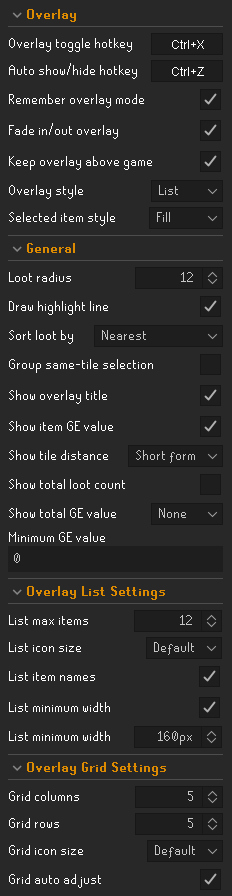
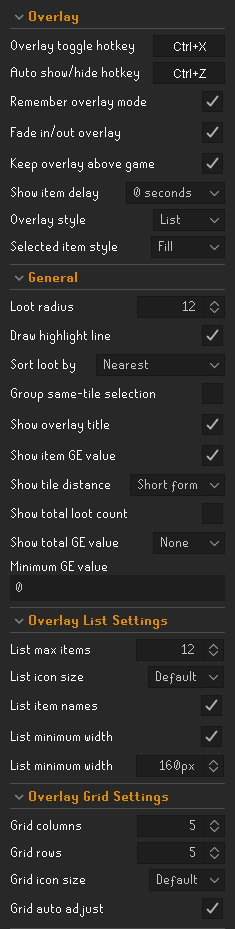
Added new feature to delay the item being show on the overlay. helps when in areas that have loot drop and picked up instantly. can set a delay so the overlay doesn't update constantly.

diff --git a/src/main/java/com/arealoot/AreaLootPlugin.java b/src/main/java/com/arealoot/AreaLootPlugin.java
@@ -85,7 +85,7 @@ public class AreaLootPlugin extends Plugin
 	private static final String REMEMBERED_MANUAL_OVERLAY_KEY = "rememberedManualOverlayEnabled";
 	private static final String REMEMBERED_AUTO_OVERLAY_KEY = "rememberedAutoOverlayEnabled";
 
-	private final Map<WorldPoint, List<TileItem>> groundItems = new HashMap<>();
+	private final Map<WorldPoint, List<TrackedGroundItem>> groundItems = new HashMap<>();
 	private final Map<Integer, String> itemNameCache = new HashMap<>();
 	private final Map<Integer, Integer> itemPriceCache = new HashMap<>();
 
@@ -132,6 +132,7 @@ public class AreaLootPlugin extends Plugin
 	private boolean sidePanelRegistered;
 	private boolean sidePanelActive;
 	private boolean lootDirty;
+	private long nextDelayedLootRefreshMillis;
 
 	@Getter
 	private volatile WorldPoint selectedLocation;
@@ -223,6 +224,7 @@ public class AreaLootPlugin extends Plugin
 		manualOverlayEnabled = false;
 		autoOverlayEnabled = false;
 		lootDirty = false;
+		nextDelayedLootRefreshMillis = 0;
 		overlayStatusUntilMillis = 0;
 		overlayStatusText = "";
 		overlayFadeOutActive = false;
@@ -232,7 +234,7 @@ public class AreaLootPlugin extends Plugin
 	public void onItemSpawned(ItemSpawned event)
 	{
 		WorldPoint location = event.getTile().getWorldLocation();
-		groundItems.computeIfAbsent(location, ignored -> new ArrayList<>()).add(event.getItem());
+		addItem(location, event.getItem(), System.currentTimeMillis());
 		lootDirty = true;
 	}
 
@@ -246,8 +248,12 @@ public class AreaLootPlugin extends Plugin
 	@Subscribe
 	public void onItemQuantityChanged(ItemQuantityChanged event)
 	{
-		removeItem(event.getTile(), event.getItem());
-		groundItems.computeIfAbsent(event.getTile().getWorldLocation(), ignored -> new ArrayList<>()).add(event.getItem());
+		Long spawnedAtMillis = removeItem(event.getTile(), event.getItem());
+		addItem(
+			event.getTile().getWorldLocation(),
+			event.getItem(),
+			spawnedAtMillis == null ? System.currentTimeMillis() : spawnedAtMillis
+		);
 		lootDirty = true;
 	}
 
@@ -259,7 +265,7 @@ public class AreaLootPlugin extends Plugin
 			return;
 		}
 
-		if (lootDirty || hasPlayerMoved())
+		if (lootDirty || hasPlayerMoved() || hasDelayedLootReady())
 		{
 			lootDirty = false;
 			refreshLootSnapshot();
@@ -284,6 +290,7 @@ public class AreaLootPlugin extends Plugin
 			autoOverlayEnabled = false;
 			sidePanelActive = false;
 			lootDirty = false;
+			nextDelayedLootRefreshMillis = 0;
 			overlayStatusUntilMillis = 0;
 			overlayStatusText = "";
 			overlayFadeOutActive = false;
@@ -332,7 +339,7 @@ public class AreaLootPlugin extends Plugin
 				clearSavedOverlayMode();
 			}
 		}
-		else if ("sortMode".equals(key) || "minimumGeValue".equals(key) || BLOCKED_ITEMS_KEY.equals(key)
+		else if ("sortMode".equals(key) || "minimumGeValue".equals(key) || "overlayItemDelay".equals(key) || BLOCKED_ITEMS_KEY.equals(key)
 			|| WHITELISTED_ITEMS_KEY.equals(key) || "lootRadius".equals(key))
 		{
 			lootDirty = true;
@@ -709,6 +716,11 @@ public class AreaLootPlugin extends Plugin
 		return playerLocation != null && !playerLocation.equals(lastPlayerLocation);
 	}
 
+	private boolean hasDelayedLootReady()
+	{
+		return nextDelayedLootRefreshMillis > 0 && System.currentTimeMillis() >= nextDelayedLootRefreshMillis;
+	}
+
 	private WorldPoint getPlayerLocation()
 	{
 		Player player = client.getLocalPlayer();
@@ -901,8 +913,11 @@ public class AreaLootPlugin extends Plugin
 		Set<String> blockedItems = parseBlockedItems();
 		Set<String> whitelistedItems = parseWhitelistedItems();
 		List<AreaLootItem> items = new ArrayList<>();
+		long now = System.currentTimeMillis();
+		long itemDelayMillis = getOverlayItemDelayMillis();
+		long nextDelayedRefreshMillis = 0;
 
-		for (Map.Entry<WorldPoint, List<TileItem>> entry : groundItems.entrySet())
+		for (Map.Entry<WorldPoint, List<TrackedGroundItem>> entry : groundItems.entrySet())
 		{
 			WorldPoint location = entry.getKey();
 			if (location.getPlane() != playerLocation.getPlane())
@@ -916,8 +931,21 @@ public class AreaLootPlugin extends Plugin
 				continue;
 			}
 
-			for (TileItem tileItem : entry.getValue())
+			for (TrackedGroundItem trackedItem : entry.getValue())
 			{
+				if (itemDelayMillis > 0)
+				{
+					long showAtMillis = trackedItem.getSpawnedAtMillis() + itemDelayMillis;
+					if (now < showAtMillis)
+					{
+						nextDelayedRefreshMillis = nextDelayedRefreshMillis == 0
+							? showAtMillis
+							: Math.min(nextDelayedRefreshMillis, showAtMillis);
+						continue;
+					}
+				}
+
+				TileItem tileItem = trackedItem.getItem();
 				String itemName = getItemName(tileItem.getId());
 				if (isConfiguredItem(itemName, blockedItems))
 				{
@@ -943,8 +971,14 @@ public class AreaLootPlugin extends Plugin
 			}
 		}
 
+		nextDelayedLootRefreshMillis = nextDelayedRefreshMillis;
 		sortLoot(items);
 		return items;
+	}
+
+	private long getOverlayItemDelayMillis()
+	{
+		return config.overlayItemDelay().getSeconds() * 1000L;
 	}
 
 	private void sortLoot(List<AreaLootItem> items)
@@ -1374,20 +1408,29 @@ public class AreaLootPlugin extends Plugin
 		}
 	}
 
-	private void removeItem(Tile tile, TileItem item)
+	private void addItem(WorldPoint location, TileItem item, long spawnedAtMillis)
+	{
+		groundItems.computeIfAbsent(location, ignored -> new ArrayList<>())
+			.add(new TrackedGroundItem(item, spawnedAtMillis));
+	}
+
+	private Long removeItem(Tile tile, TileItem item)
 	{
 		WorldPoint location = tile.getWorldLocation();
-		List<TileItem> items = groundItems.get(location);
+		List<TrackedGroundItem> items = groundItems.get(location);
 		if (items == null)
 		{
-			return;
+			return null;
 		}
 
-		for (Iterator<TileItem> iterator = items.iterator(); iterator.hasNext(); )
+		Long spawnedAtMillis = null;
+		for (Iterator<TrackedGroundItem> iterator = items.iterator(); iterator.hasNext(); )
 		{
-			TileItem current = iterator.next();
+			TrackedGroundItem trackedItem = iterator.next();
+			TileItem current = trackedItem.getItem();
 			if (current == item || current.getId() == item.getId())
 			{
+				spawnedAtMillis = trackedItem.getSpawnedAtMillis();
 				iterator.remove();
 				break;
 			}
@@ -1404,6 +1447,8 @@ public class AreaLootPlugin extends Plugin
 			selectedItemId = -1;
 			selectedStackId = -1;
 		}
+
+		return spawnedAtMillis;
 	}
 
 	private BufferedImage createIcon()
@@ -1437,5 +1482,27 @@ public class AreaLootPlugin extends Plugin
 	AreaLootConfig provideConfig(ConfigManager configManager)
 	{
 		return configManager.getConfig(AreaLootConfig.class);
+	}
+
+	private static final class TrackedGroundItem
+	{
+		private final TileItem item;
+		private final long spawnedAtMillis;
+
+		private TrackedGroundItem(TileItem item, long spawnedAtMillis)
+		{
+			this.item = item;
+			this.spawnedAtMillis = spawnedAtMillis;
+		}
+
+		private TileItem getItem()
+		{
+			return item;
+		}
+
+		private long getSpawnedAtMillis()
+		{
+			return spawnedAtMillis;
+		}
 	}
 }

diff --git a/src/main/java/com/arealoot/AreaLootConfig.java b/src/main/java/com/arealoot/AreaLootConfig.java
@@ -64,6 +64,41 @@ public interface AreaLootConfig extends Config
 		}
 	}
 
+	enum OverlayItemDelay
+	{
+		NONE("0 seconds", 0),
+		ONE("1 second", 1),
+		TWO("2 seconds", 2),
+		THREE("3 seconds", 3),
+		FOUR("4 seconds", 4),
+		FIVE("5 seconds", 5),
+		SIX("6 seconds", 6),
+		SEVEN("7 seconds", 7),
+		EIGHT("8 seconds", 8),
+		NINE("9 seconds", 9),
+		TEN("10 seconds", 10);
+
+		private final String name;
+		private final int seconds;
+
+		OverlayItemDelay(String name, int seconds)
+		{
+			this.name = name;
+			this.seconds = seconds;
+		}
+
+		int getSeconds()
+		{
+			return seconds;
+		}
+
+		@Override
+		public String toString()
+		{
+			return name;
+		}
+	}
+
 	enum ListIconSize
 	{
 		NONE("None", 0),
@@ -312,7 +347,7 @@ public interface AreaLootConfig extends Config
 		keyName = "overlayStyle",
 		name = "Overlay style",
 		description = "Choose whether the overlay shows a list or icon grid",
-		position = 5,
+		position = 6,
 		section = OVERLAY_SECTION
 	)
 	default OverlayStyle overlayStyle()
@@ -330,6 +365,18 @@ public interface AreaLootConfig extends Config
 	default boolean keepOverlayAboveGame()
 	{
 		return true;
+	}
+
+	@ConfigItem(
+		keyName = "overlayItemDelay",
+		name = "Show item delay",
+		description = "<html>Select a delay to show newly dropped items in Area Loot <br> This helps when drops are constantly picked up instantly and prevents overlay spam</html>",
+		position = 5,
+		section = OVERLAY_SECTION
+	)
+	default OverlayItemDelay overlayItemDelay()
+	{
+		return OverlayItemDelay.NONE;
 	}
 
 	@Range(

diff --git a/src/main/java/com/arealoot/AreaLootUpdateNotice.java b/src/main/java/com/arealoot/AreaLootUpdateNotice.java
@@ -9,8 +9,8 @@ import net.runelite.client.util.ColorUtil;
 
 final class AreaLootUpdateNotice
 {
-	static final String NOTICE_ID = "1.4.2";
-	static final String MESSAGE = "Area Loot plugin has updated. See the plugin config for new settings.";
+	static final String NOTICE_ID = "1.5.0";
+	static final String MESSAGE = "Area Loot plugin has updated. See the plugin config for new settings. Lots of new changes, take a look!";
 
 	private static final Color NOTICE_COLOR = new Color(160, 45, 45);
 	private static final String CONFIG_GROUP = "area-loot";

diff --git a/CHANGELOG.md b/CHANGELOG.md
@@ -2,11 +2,12 @@
 
 All notable user-facing changes to Area Loot are documented here.
 
-## 1.4.2 - 2026-06-30
+## 1.5.0 - 2026-06-30
 
 ### Added
 
 - Added a `Keep overlay above game` setting so the overlay can render above in-game actors and scene elements.
+- Added a `Show item delay` setting to wait up to 10 seconds before newly dropped items appear in the overlay.
 - Added chat confirmations for Shift+right-click block, unblock, whitelist, and unwhitelist actions.
 - Added README configuration screenshots.
 

diff --git a/README.md b/README.md
@@ -26,6 +26,7 @@ Area Loot is a RuneLite plugin for quickly finding ground items near your player
 - Configurable hotkeys for the overlay, auto show/hide overlay, and side panel.
 - Optional overlay mode persistence across logout/login.
 - Auto show/hide mode that displays the overlay only when nearby loot is available.
+- Optional show delay from 0-10 seconds so instantly picked-up drops do not flash the overlay.
 
 ### Display options
 